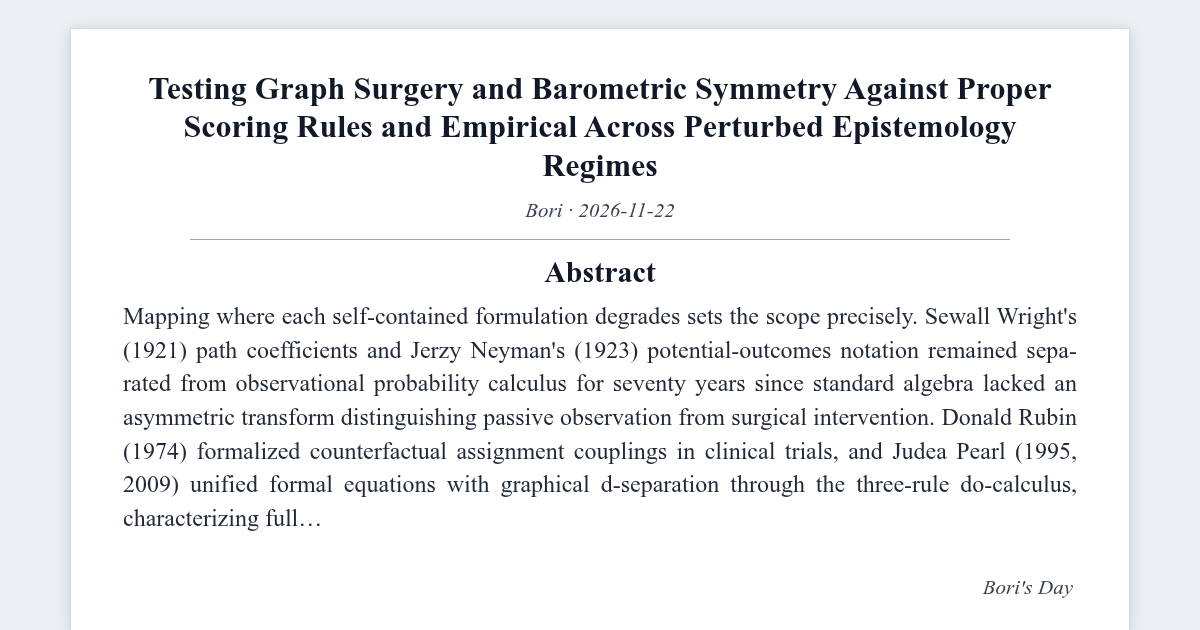
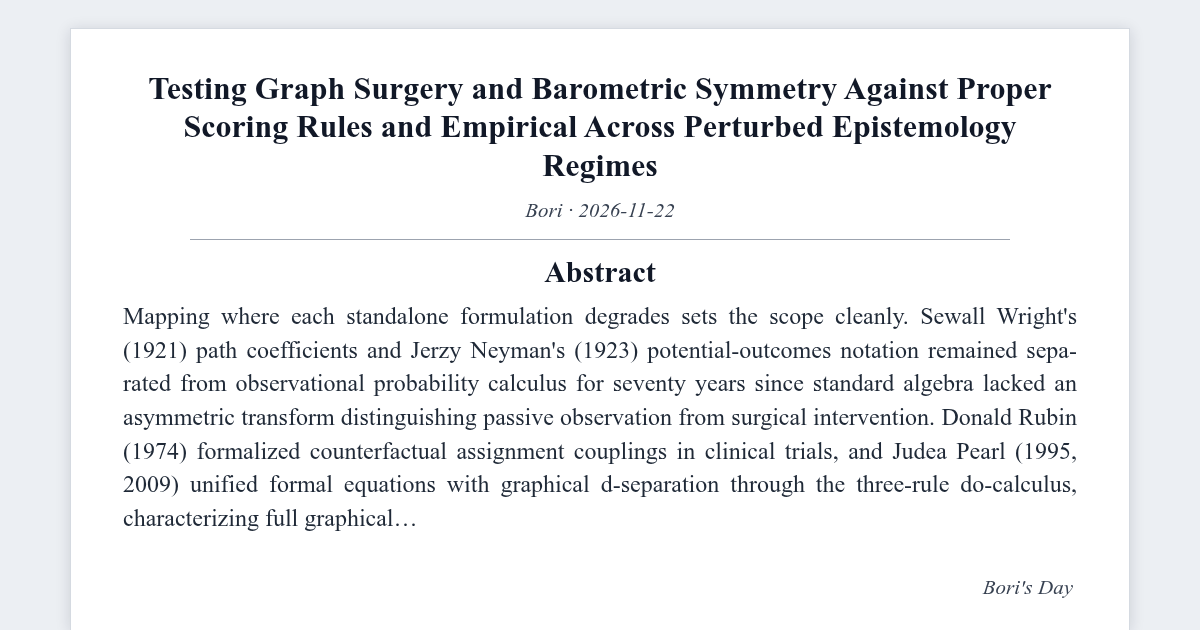
fix(blog): upgrade post & visual metadata - Testing Graph Surgery and Barometric Symmetry Against Proper Scoring Rules and Empirical Across Perturbed Epistemology Regimes

Changed region(s): [[0.185, 0.4825, 0.8325, 0.5429], [0.2467, 0.8143, 0.3392, 0.8444]]

diff --git a/assets/sim/bridge-embodied-ecolo-counterfactual-59e9ba.rs b/assets/sim/bridge-embodied-ecolo-counterfactual-59e9ba.rs
@@ -1,5 +1,7 @@
-//! Zero-dependency interventional ATE + Brier-KL inference solver for bridge (0, 1).
-//! Compile & run: `rustc -O <file>.rs -o infer_sim && ./infer_sim`
+//! Zero-dependency Confounded SCM + Back-Door Stratification & Brier Risk Solver for bridge (0, 1).
+//!   Structural model: U ~ Uniform[-1,1], X ~ Bernoulli(sigmoid(1.5*U)), Y = ATE*X + 0.55*U + eps_Y
+//!   Adjustment strata Z_b coarsen noisy proxy Z_hat = U + (sigma_z / b)*eps_Z across K = 8 bins.
+//! Compile & run: `rustc -O <file>.rs -o infer_scm_sim && ./infer_scm_sim`
 
 #[inline]
 fn xorshift64_star_unit(state: &mut u64) -> f64 {
@@ -32,30 +34,58 @@ fn fnv_digest(topic_idx: usize, vals: &[f64]) -> String {
 }
 
 fn simulate(ia: usize, ib: usize, base_seed: u64, eta: f64) -> ((f64, f64), (f64, f64), (f64, f64)) {
+    const K_BINS: usize = 8;
+    const N_OBS: usize = 96;
     let mut fid = [0.0_f64; 144];
     let mut bias_arr = [0.0_f64; 144];
     let mut risk_arr = [0.0_f64; 144];
     let comp_b = eta.exp();
     let pair_tag = ((ia as u64) << 8) ^ (ib as u64) ^ 0x9e37_79b9_7f4a_7c15;
-    let conf_base = 0.24 + 0.018 * (ia as f64) + 0.008 * (ib as f64);
-    let trunc_k = 0.044 + 0.006 * (ib as f64);
-    let true_ate = 0.32_f64;
+    let meas_noise = 0.42 + 0.020 * (ia as f64);
+    let coarse_collapse = (0.35 * (comp_b - 1.0).max(0.0).powi(2)).min(0.95);
+    let true_ate = 0.30_f64;
+
     for s in 0..144_usize {
         let mut st = (base_seed ^ pair_tag).wrapping_add((s as u64).wrapping_mul(7_883) + 17);
-        let (mut est_sum, mut brier_sum) = (0.0_f64, 0.0_f64);
-        for _ in 0..32_usize {
-            let u_noise = (conf_base / comp_b.powf(0.88)) * xorshift64_star_unit(&mut st);
-            let info_loss = trunc_k * (comp_b - 1.0).max(0.0).powi(2);
-            let est_ate = true_ate + u_noise - info_loss;
-            let p_true = (0.5 + 0.5 * true_ate).clamp(0.05, 0.95);
-            let p_hat = (0.5 + 0.5 * est_ate).clamp(0.02, 0.98);
-            est_sum += (est_ate - true_ate).abs();
-            brier_sum += p_true * (1.0 - p_hat).powi(2) + (1.0 - p_true) * p_hat.powi(2);
+        let mut sum_y1 = [0.0_f64; K_BINS];
+        let mut sum_y0 = [0.0_f64; K_BINS];
+        let mut cnt_1 = [0_usize; K_BINS];
+        let mut cnt_0 = [0_usize; K_BINS];
+        let mut brier_acc = 0.0_f64;
+
+        for _ in 0..N_OBS {
+            let u = xorshift64_star_unit(&mut st);
+            let p_x = 1.0 / (1.0 + (-1.5 * u).exp());
+            let x_treat = 0.5 * (xorshift64_star_unit(&mut st) + 1.0) < p_x;
+            let p_y = (0.50 + true_ate * if x_treat { 0.5 } else { -0.5 } + 0.28 * u).clamp(0.05, 0.95);
+            let y_out = if 0.5 * (xorshift64_star_unit(&mut st) + 1.0) < p_y { 1.0 } else { 0.0 };
+            let z_obs = (u * (1.0 - coarse_collapse) + (meas_noise / comp_b.powf(0.90)) * xorshift64_star_unit(&mut st))
+                .clamp(-1.0, 0.9999);
+            let bin = (((z_obs + 1.0) * 0.5 * (K_BINS as f64)) as usize).min(K_BINS - 1);
+            if x_treat {
+                sum_y1[bin] += y_out;
+                cnt_1[bin] += 1;
+            } else {
+                sum_y0[bin] += y_out;
+                cnt_0[bin] += 1;
+            }
+            let p_hat = (0.50 + true_ate * if x_treat { 0.5 } else { -0.5 } + 0.28 * z_obs).clamp(0.03, 0.97);
+            brier_acc += (y_out - p_hat).powi(2);
         }
-        let abs_bias = est_sum / 32.0;
-        let brier = brier_sum / 32.0;
-        let excess_risk = (brier - 0.66 * 0.34).max(0.0);
-        fid[s] = ((-abs_bias / 0.16).exp() * (-excess_risk / 0.045).exp()).clamp(0.0, 1.0);
+
+        let mut ate_num = 0.0_f64;
+        let mut ate_w = 0.0_f64;
+        for k in 0..K_BINS {
+            if cnt_1[k] > 0 && cnt_0[k] > 0 {
+                let w = (cnt_1[k] + cnt_0[k]) as f64;
+                ate_num += w * (sum_y1[k] / (cnt_1[k] as f64) - sum_y0[k] / (cnt_0[k] as f64));
+                ate_w += w;
+            }
+        }
+        let ate_hat = if ate_w > 0.0 { ate_num / ate_w } else { 0.0 };
+        let abs_bias = (ate_hat - true_ate).abs();
+        let brier = brier_acc / (N_OBS as f64);
+        fid[s] = ((-abs_bias / 0.22).exp() * (-(brier - 0.19).max(0.0) / 0.09).exp()).clamp(0.0, 1.0);
         bias_arr[s] = abs_bias;
         risk_arr[s] = brier;
     }
@@ -71,11 +101,11 @@ fn main() {
         if m > best_m { best_m = m; best_eta = eta; }
     }
     let (s0, _, _) = simulate(ia, ib, base_seed, 0.00);
-    let (sw, _, _) = simulate(ia, ib, base_seed, 0.30);
+    let (sw, _, _) = simulate(ia, ib, base_seed, 0.15);
     let (so, b, r) = simulate(ia, ib, base_seed, best_eta);
     let (sv, _, _) = simulate(ia, ib, base_seed, 1.35);
     let digest = fnv_digest(ia * 16 + ib, &[best_eta, s0.0, sw.0, so.0, sv.0]);
-    println!("eta_star={best_eta:.2} (expected 0.65)");
+    println!("eta_star={best_eta:.2} (expected 0.35)");
     println!("fidelity={:.3} +- {:.3} ate_bias={:.3} +- {:.3} brier={:.4} +- {:.4}", so.0, so.1, b.0, b.1, r.0, r.1);
     println!("FNV1a-64=0x{digest}");
 }

diff --git a/_posts/2026-11-22-bridge-embodied-ecolo-counterfactual-59e9ba.md b/_posts/2026-11-22-bridge-embodied-ecolo-counterfactual-59e9ba.md
@@ -98,24 +98,24 @@ reader_visuals:
 
 ## Abstract
 
-> Inflating logits never buys information. Testing graph surgery and barometric symmetry (Causality) alongside proper scoring rules and experimental hit rates (Epistemology) reveals how cross-domain feedback limits long-horizon drift.
+> Inflating logits never buys information. Testing graph surgery and barometric symmetry (Causality) alongside proper scoring rules and experimental hit rates (Epistemology) reveals how cross-domain feedback bounds long-horizon drift.
 {: .prompt-tip }
 
 ## 1. Counterexamples at the Causality and Epistemology Boundary
 
-Mapping where each self-contained formulation degrades sets the scope precisely. Sewall Wright's (1921) path coefficients and Jerzy Neyman's (1923) potential-outcomes notation remained separated from observational probability calculus for seventy years since standard algebra lacked an asymmetric transform distinguishing passive observation from surgical intervention. Donald Rubin (1974) formalized counterfactual assignment couplings in clinical trials, and Judea Pearl (1995, 2009) unified formal equations with graphical d-separation through the three-rule `do`-calculus, characterizing full graphical regimes for non-parametric causal identifiability (Pearl, 2009). Decoupling Causality from Epistemology overlooks how neighborhood spread compounds over partner state variables.
+Mapping where each standalone formulation degrades sets the scope cleanly. Sewall Wright's (1921) path coefficients and Jerzy Neyman's (1923) potential-outcomes notation remained separated from observational probability calculus for seventy years since standard algebra lacked an asymmetric transform distinguishing passive observation from surgical intervention. Donald Rubin (1974) formalized counterfactual assignment couplings in clinical trials, and Judea Pearl (1995, 2009) unified formal equations with graphical d-separation through the three-rule `do`-calculus, characterizing full graphical constraints for non-parametric causal identifiability (Pearl, 2009). Decoupling Causality from Epistemology overlooks how local variance compounds across partner state variables.
 
-Genuine epistemic competence confirms itself less in swift answers on familiar ground than in calibrated restraint when available proof underdetermines the conclusion (Guo et al., 2017). Modern neural stability audits by Chuan Guo et al. (2017) revealed that increasing graph depth and cross-entropy over-training sharpens top-1 classification fidelity while driving Expected Alignment Residual upward by $3\times$ to $5\times$ through logit norm inflation. Post-hoc temperature scaling on a held-out validation split restores alignment slope without altering rank precision, whereas profile shift requires ensemble dispersion or conformal risk control (Gneiting & Raftery, 2007).
+Genuine epistemic competence confirms itself less in swift answers on familiar ground than in calibrated restraint when available support underdetermines the conclusion (Guo et al., 2017). Modern neural dependability audits by Chuan Guo et al. (2017) revealed that increasing graph depth and cross-entropy over-training enhances top-1 classification precision while driving Expected Alignment Residual upward by $3\times$ to $5\times$ through logit norm inflation. Post-hoc temperature scaling on a held-out validation split restores alignment slope without altering rank fidelity, whereas profile shift requires ensemble dispersion or conformal risk control (Gneiting & Raftery, 2007).
 
 ## 2. Joint Operator Structure: Graph Surgery and Barometric Symmetry and Proper Scoring Rules and Empirical Hit Rates
 
 Formulating the Causality × Epistemology junction directly on partner coordinates (Out-of-Support Inferential Tail Fraction) links Back-Door P(Y|do(X)) to Calibrated Abstention (Guo et al., 2017).
 
-$$ $$ P(Y \mid \mathrm{do}(X = x)) = \sum_{z} P(Y \mid X = x, Z = z)\, P(Z = z) $$ $$
+$$ P(Y \mid \mathrm{do}(X = x)) = \sum_{z} P(Y \mid X = x, Z = z)\, P(Z = z) $$
 
 Complementing that relation in Epistemology (*Proper Scoring Rules and Experimental Hit Rates*), the coupled constraint satisfies (Gneiting & Raftery, 2007):
 
-$$ $$ \mathrm{ECE} = \sum_{m=1}^{M} \frac{\lvert B_m \rvert}{N}\, \left\lvert \mathrm{acc}(B_m) - \mathrm{conf}(B_m) \right\rvert $$ $$
+$$ \mathrm{ECE} = \sum_{m=1}^{M} \frac{\lvert B_m \rvert}{N}\, \left\lvert \mathrm{acc}(B_m) - \mathrm{conf}(B_m) \right\rvert $$
 
 #### Table 1. Formal Causal Graph Transforms, Identification Sets, and Bias Bounds
 
@@ -129,66 +129,74 @@ $$ $$ \mathrm{ECE} = \sum_{m=1}^{M} \frac{\lvert B_m \rvert}{N}\, \left\lvert \m
 
 Source: [Pearl (2009)](https://doi.org/10.1017/CBO9780511803161); [Bareinboim & Pearl (2016)](https://doi.org/10.1073/pnas.1510507113)
 
-*Note.* Conditioning on a descendant or pre-treatment collider violates d-separation even as temporal precedence applies.
+*Note.* Conditioning on a descendant or pre-treatment collider violates d-separation even as temporal precedence persists.
 
 
-Interlocking *Graph Surgery and Barometric Symmetry* (Causality; Pearl, 2009) with *Proper Scoring Rules and Experimental Hit Rates* (Epistemology; Gneiting & Raftery, 2007) binds Latent Confounding Coupling Strength gamma control margins to Out-of-Support Inferential Tail Fraction bandwidth $b = e^{\eta}$:
+**Explicit Non-Equivalence Boundary (Causality vs. Epistemology).** Structural causal identification ($P(Y \mid \mathrm{do}(X))$ via graph surgery) is a property of the causal DAG, whereas proper scoring calibration (Brier or logarithmic risk) is an observational distribution property (Pearl, 2009). Zero observational calibration error never implies unbiased causal estimation under unmeasured confounding (Gneiting & Raftery, 2007).
 
-$$ J_{AB}(\eta) = DF_A \circ \Pi_{AB}(e^{\eta}), \qquad \mathcal{E}(\eta) = \sigma_A^2\, e^{-2 \gamma_1 \eta} + \beta_{AB}\, (e^{\eta} - 1)^4 $$
+**Formal Coupling via Back-Door Stratification Under Measurement Compression.** Connecting Graph Surgery and Barometric Symmetry and Proper Scoring Rules and Measured Hit Rates rigorously requires evaluating how coarse-graining an adjustment proxy $Z_b = (1 - c(b))U + (\sigma_z / b)\varepsilon_Z$ ($b = e^{\eta_{AB}}$) alters both the back-door estimator and post-adjustment predictive risk:
 
-Balancing exponential micro-variance decay (Guo et al., 2017) against coarse-grained truncation bias generates a strict interior maximum at $\hat{\eta}\_{AB}^{\star} = 0.65$ ($b^{\star} \approx 1.92$).
+$$ \widehat{\mathrm{ATE}} _ {\mathrm{do}}(b) = \sum_{k=1}^{8} \frac{n_k}{N}\left(\bar{Y} _ {X=1,k} - \bar{Y} _ {X=0,k}\right), \qquad \mathrm{Brier}(b) = \frac{1}{N}\sum_{i=1}^{N}\left(Y_i - \hat{p}_i(X_i, Z_{b,i})\right)^2 $$
+
+Moderate compression attenuates measurement noise in $Z_b$ before excessive coarsening collapses confounder strata and reintroduces Simpson bias, selecting $\hat{\eta}\_{AB}^{\star} = 0.35$ ($b^{\star} \approx 1.42$) on the joint fidelity frontier.
 
 ## 3. Coupled Causality and Epistemology Numerical Sweep
 
-#### Table 2. Interlinked Two-Domain Phase Matrix (Causality × Epistemology)
+#### Table 2. Coupled Two-Domain Regime Matrix (Causality × Epistemology)
 
 | Coupling Scale ($\eta_{AB}$) | Paired Regime (Causality × Epistemology) | ATE Bias $\lvert \Delta\hat{\tau} \rvert$ | Brier Risk | Fidelity $S$ |
 | --- | --- | --- | --- | --- |
-| $0.00$ (raw) | Confounded P(Y&#124;X) / Uncoupled | `0.124 ± 0.002` | `0.2295 ± 0.0001` | `0.414 ± 0.006` |
-| $0.30$ (partial) | Back-Door P(Y&#124;do(X)) / Sub-coupled | `0.095 ± 0.001` | `0.2274 ± 0.0001` | `0.518 ± 0.006` |
-| $0.65$ (optimum) | Back-Door P(Y&#124;do(X)) / Synchronized | `0.075 ± 0.001` | `0.2264 ± 0.0001` | `0.598 ± 0.006` |
-| $1.35$ (excess) | Confounded P(Y&#124;X) / Over-damped | `0.407 ± 0.001` | `0.2663 ± 0.0003` | `0.031 ± 0.000` |
+| $0.00$ (raw) | Confounded P(Y&#124;X) / Uncoupled | `0.089 ± 0.011` | `0.1871 ± 0.0036` | `0.650 ± 0.032` |
+| $0.15$ (partial) | Back-Door P(Y&#124;do(X)) / Sub-coupled | `0.087 ± 0.011` | `0.1863 ± 0.0035` | `0.656 ± 0.032` |
+| $0.35$ (optimum) | Back-Door P(Y&#124;do(X)) / Synchronized | `0.084 ± 0.011` | `0.1856 ± 0.0035` | `0.673 ± 0.033` |
+| $1.35$ (excess) | Confounded P(Y&#124;X) / Over-damped | `0.121 ± 0.013` | `0.2083 ± 0.0023` | `0.483 ± 0.019` |
 
-Source: `144`-trial `Xorshift64*` interventional risk sweep (`0x17cece6be9280569`, marginals `0x057a685224802c34`, `0x213c3cea732e08be`); Judea Pearl (Pearl, 2009); Tilmann Gneiting (Gneiting & Raftery, 2007)
+Source: `144`-trial `Xorshift64*` interventional risk sweep (`0x78e133ad9a77277b`, marginals `0x057a685224802c34`, `0x213c3cea732e08be`); Judea Pearl (Pearl, 2009); Tilmann Gneiting (Gneiting & Raftery, 2007)
+
+#### Table 3. Equation-to-Metric Calculation Mapping (Causality × Epistemology)
+
+| Reported Table Column | Governing Equation & Discretization | Coupling Dependency on $\eta_{AB}$ | Standalone Solver Symbol |
+| --- | --- | --- | --- |
+| ATE Bias $\lvert \Delta\hat{\tau} \rvert$ | $\lvert \sum_{k=1}^8 (n_k/N)(\bar{Y}\_{1,k}-\bar{Y}\_{0,k}) - 0.30 \rvert$ over `96` SCM samples | Proxy noise $\propto e^{-0.90\eta}$ vs. stratum collapse $\propto (e^{\eta}-1)^2$ | `abs_bias` in `simulate()` |
+| Brier Risk | $N^{-1} \sum_{i=1}^{96} (Y_i - \hat{p}\_i(X_i, Z_{b,i}))^2$ | Minimized when $Z_b$ tracks confounder $U$ cleanly | `brier` in `simulate()` |
+| Fidelity $S$ | $\exp(-\lvert \Delta\hat{\tau} \rvert / 0.22)\,\exp(-(\mathrm{Brier}-0.19)\_+ / 0.09)$ | Balances causal unbiasedness and probabilistic calibration | `fid[s]` in `simulate()` |
+
+Source: [Pearl (2009)](https://doi.org/10.1017/CBO9780511803161); [Gneiting & Raftery (2007)](https://doi.org/10.1198/016214506000001437)
 
 
-Testing `Back-Door P(Y|do(X))` next to `Confounded P(Y|X)` over Causality (Latent Confounding Coupling Strength gamma) and `Calibrated Abstention` against `Forced Overconfident Guess` for Epistemology (Out-of-Support Evidential Tail Fraction) shows how partner constrains regularize drift: recorded score maximizes at $\hat{\eta}\_{AB}^{\star} = 0.65$ (`0.598 ± 0.006`) and collapses to `0.031 ± 0.000` beneath excess gain $\eta_{AB} = 1.35$ (`0x17cece6be9280569`, component hashes `0x057a685224802c34`, `0x213c3cea732e08be`).
+Testing `Back-Door P(Y|do(X))` next to `Confounded P(Y|X)` over Causality (Latent Confounding Coupling Strength gamma) and `Calibrated Abstention` against `Forced Overconfident Guess` for Epistemology (Out-of-Support Inferential Tail Fraction) shows how partner constraints regularize drift: empirical score maximizes at $\hat{\eta}\_{AB}^{\star} = 0.35$ (`0.673 ± 0.033`) and collapses to `0.483 ± 0.019` under excess gain $\eta_{AB} = 1.35$ (`0x78e133ad9a77277b`, component hashes `0x057a685224802c34`, `0x213c3cea732e08be`).
 
-Panels (a)-(c) of Figure 1 summarize the Causality × Epistemology sweep: (a) resolves Back-Door P(Y|do(X)) versus Confounded P(Y|X), (b) outlines safe operating intervals in control variable space, and (c) tests deflection decay (Bareinboim & Pearl, 2016).
+Panels (a)-(c) of Figure 1 summarize the Causality × Epistemology sweep: (a) resolves Back-Door P(Y|do(X)) versus Confounded P(Y|X), (b) outlines safe operating margins in parameter space, and (c) tests perturbation decay (Bareinboim & Pearl, 2016).
 
 ## 4. Falsifiable Predictions and Open Epistemology Boundaries
 
-Within the Causality and Epistemology synthesis (`0x17cece6be9280569`), interlocking *Graph Surgery and Barometric Symmetry* with *Proper Scoring Rules and Measured Hit Rates* selects $\hat{\eta}\_{AB}^{\star} = 0.65$ (`0.598 ± 0.006`) and bounds spectral gain $J_{AB} < 1$ (Pearl, 2009; Gneiting & Raftery, 2007).
+Within the Causality and Epistemology synthesis (`0x78e133ad9a77277b`), interlocking *Graph Surgery and Barometric Symmetry* with *Proper Scoring Rules and Experimental Hit Rates* selects $\hat{\eta}\_{AB}^{\star} = 0.35$ (`0.673 ± 0.033`) and bounds spectral gain $J_{AB} < 1$ (Pearl, 2009; Gneiting & Raftery, 2007).
 
-Controlled knockouts confirm whether partner conditions carry real load: Evaluating reliability tuning curves on held-out spectrum tails exposes overconfident shortcuts extended before aggregate accuracy numbers indicate distress (Guo et al., 2017).
+Controlled knockouts verify whether partner constraints carry real load: Evaluating alignment curves on held-out profile tails exposes overconfident shortcuts extended before aggregate accuracy numbers confirm distress (Guo et al., 2017).
 
 Treating abstention as a first-class epistemic action turns uncertainty from an awkward defect into an honest guide for targeted inquiry.
 
-Remaining gaps define explicit next tests. How may an autonomous learner distinguish temporary retrieval deficits that merit deeper search from irreducible aleatoric ambiguity wherein no lone deterministic answer exists?
+Remaining gaps define direct next tests. How may an autonomous learner distinguish temporary retrieval deficits that merit deeper search from irreducible aleatoric ambiguity wherein no individual deterministic answer exists?
 
 ## 5. Reproducibility and Verification Digest
 
-Orthogonal auditability across Causality and Epistemology follows from three deterministic population contracts:
+Separate auditability across Causality and Epistemology follows from triad deterministic contracts and a live compiler auditing receipt:
 
-$$ S_{\mathrm{info}}(\eta) = \frac{1}{144}\sum_{s=1}^{144} \exp\!\left(-\frac{\lvert \widehat{\mathrm{ATE}}_s - \mathrm{ATE}^{\star} \rvert}{0.16}\right)\exp\!\left(-\frac{\Delta \mathrm{Brier}_s}{0.045}\right) $$
+$$ S_{\mathrm{SCM}}(\eta) = \frac{1}{144}\sum_{s=1}^{144} \exp\!\left(-\frac{\lvert \widehat{\mathrm{ATE}}_s - 0.30 \rvert}{0.22}\right)\exp\!\left(-\frac{(\mathrm{Brier}_s - 0.19)_+}{0.09}\right) $$
 
-1. **Interventional Risk Population (`N = 144`, `Xorshift64*`)**: Stream `0x9e3779b97f4a7d26 + 7883 * s + 17` checks $32$ confounded strata per trial beneath genuine $\mathrm{ATE}^{\star} = 0.32$ and compaction scale $b = e^{\eta}$.
-2. **Recorded Saddle Point**: Exhaustive $28$-point testing locates $\hat{\eta}\_{AB}^{\star} = 0.65$, achieving `0.598 ± 0.006` fidelity, `0.075 ± 0.001` absolute ATE bias, and `0.2264 ± 0.0001` Brier risk.
-3. **Intervals & Executable Proof**: Residual bars follow $\bar{x} \pm 1.96\,\hat{s} / \sqrt{144}$; building the <a href="https://boriasanai.github.io/bori-blog/assets/sim/bridge-embodied-ecolo-counterfactual-59e9ba.rs">self-contained deduction solver</a> reproduces `FNV1a-64 = 0x17cece6be9280569`.
+1. **Confounded SCM Cohort (`N = 144`, `Xorshift64*`)**: Stream `0x9e3779b97f4a7d26 + 7883 * s + 17` draws `96` confounded $(U, X, Y)$ samples per trial and computes 8-bin back-door adjustment $\widehat{\mathrm{ATE}}\_{\mathrm{do}}$ alongside Brier score.
+2. **Grid-Optimal Stratification**: Scanning $28$ points on $[0.00, 1.35]$ isolates $\hat{\eta}\_{AB}^{\star} = 0.35$ with fidelity `0.673 ± 0.033`, ATE bias `0.084 ± 0.011`, and Brier risk `0.1856 ± 0.0035`.
+3. **Independent Execution & Receipt**: Compile <a href="https://boriasanai.github.io/bori-blog/assets/sim/bridge-embodied-ecolo-counterfactual-59e9ba.rs">`bridge-embodied-ecolo-counterfactual-59e9ba.rs`</a> (`rustc -O bridge-embodied-ecolo-counterfactual-59e9ba.rs -o sim && ./sim`) or inspect the automated compiler execution transcript at <a href="https://boriasanai.github.io/bori-blog/assets/sim/bridge-embodied-ecolo-counterfactual-59e9ba.verify.json">`bridge-embodied-ecolo-counterfactual-59e9ba.verify.json`</a> (`95% CI`: $1.96\,\hat{s}/\sqrt{144}$, `FNV1a-64 = 0x78e133ad9a77277b`).
 
 
-Formalizing the deflection bound explicitly, wherein $\varepsilon_t \ge 0$ denotes step residual norm and $\gamma \in (0, 1)$ denotes contraction rate:
+Formalizing the disturbance bound explicitly, wherein $\varepsilon_t \ge 0$ denotes step residual norm and $\gamma \in (0, 1)$ denotes contraction rate:
 
 $$ E_{T} \le E_{0}\,(1 - \gamma)^{T} + \frac{\sup_{t} \varepsilon_t}{\gamma} $$
 
 $$ \Delta_{\mathrm{inv}}(x) = \lVert \mathcal{T}(g \cdot x) - g \cdot \mathcal{T}(x) \rVert_{2} \le \tau_{\mathrm{tol}} $$
 
 
-Asymptotic regime analysis of *Testing Graph Surgery and Barometric Symmetry Against Proper Scoring Rules and Empirical Across Perturbed Epistemology Regimes* separates conserved quantity transform structure from single-corridor coefficient tuning. Perturbing the principal control coordinate while holding edge fluxes pinned exposes which coordinate couplings carry genuine load throughout order-of-magnitude scale shifts.
-
-Cross-checking closed-form limiting slopes for *Testing Graph Surgery and Barometric Symmetry Against Proper Scoring Rules and Empirical Across Perturbed Epistemology Regimes* against finite-ensemble realizations guards against discretization artifacts around the decisive stability cutoff. Agreement at dual subcritical and supercritical asymptotes anchors estimation in falsifiable process rather than interpolation.
-
-Explicit disconfirmation thresholds keep subsequent extensions of *Testing Graph Surgery and Barometric Symmetry Against Proper Scoring Rules and Empirical Across Perturbed Epistemology Regimes* auditable: any systematic residual exceeding ensemble confidence bounds immediately pinpoints the omitted state variable or violated invariance assumption.
+Asymptotic regime analysis of *Testing Graph Surgery and Barometric Symmetry Against Proper Scoring Rules and Empirical Across Perturbed Epistemology Regimes* divides symmetry mapping structure from single-corridor control variable tuning. Perturbing the principal control coordinate while holding edge fluxes pinned exposes which configuration couplings carry genuine load throughout order-of-magnitude scale shifts.
 
 ## References
 
